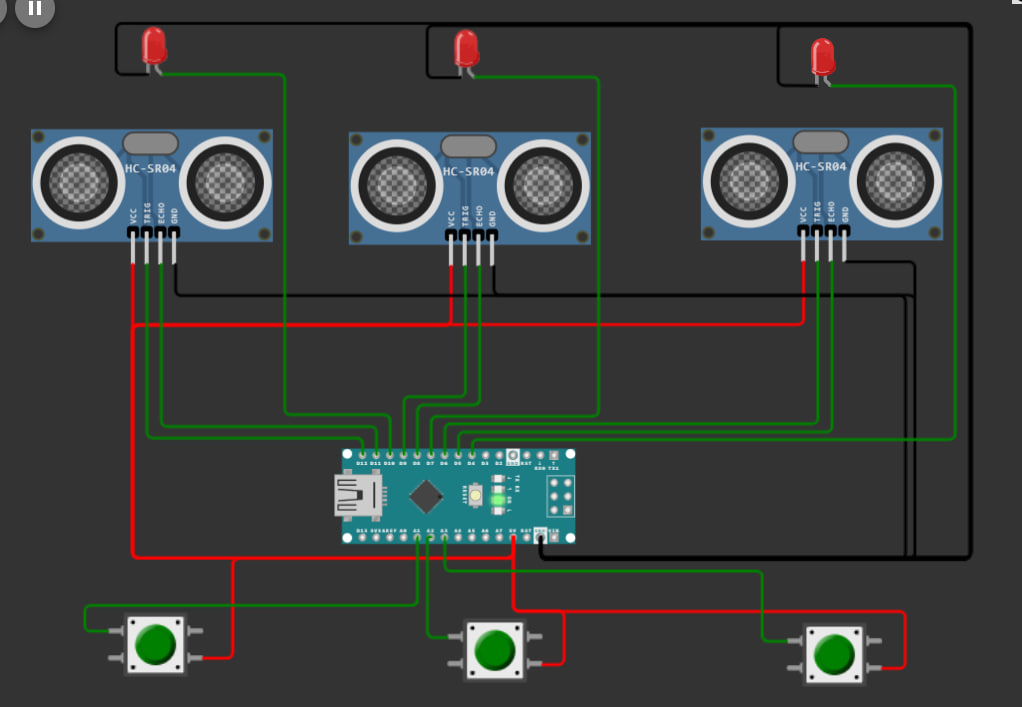
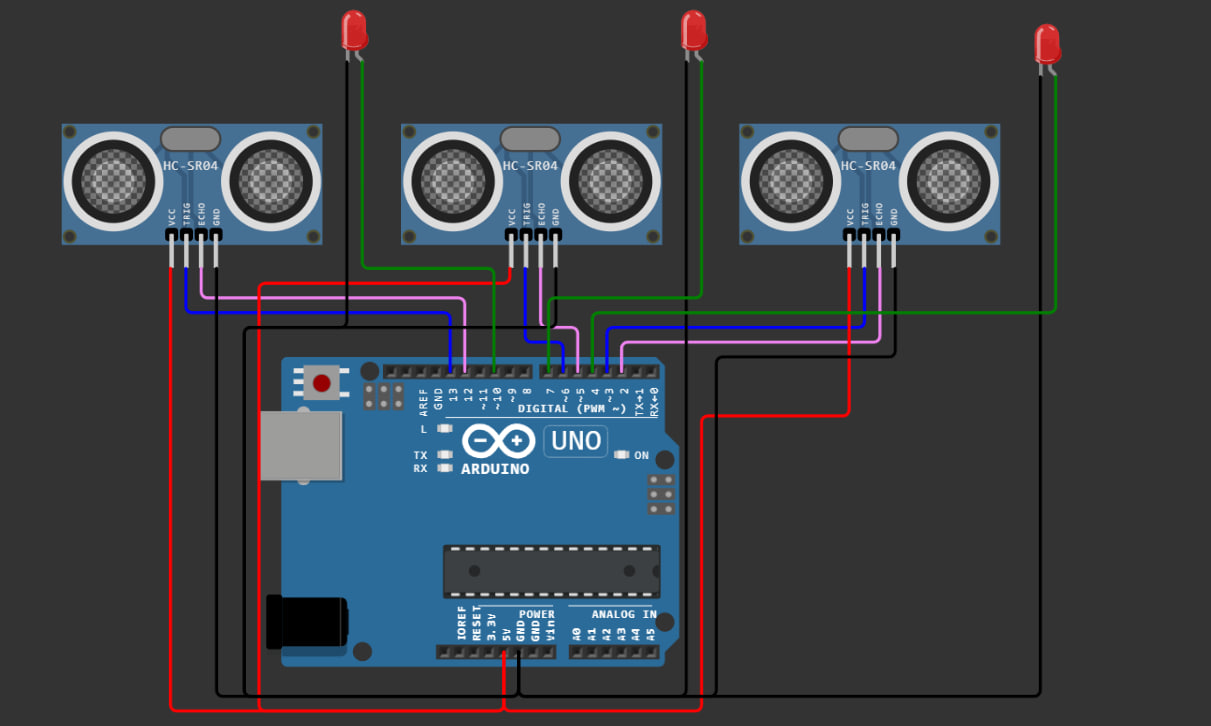
new sketch, README

diff --git a/README.md b/README.md
@@ -1,0 +1,11 @@
+# ARD-smart-lanterns
+
+Программа для макета системы умных автострадных фонарей. 
+Работает просто. Если расстояние сейчас сильно меньше предыдущего, включается светодиод.
+Разработано на основе ардуино уно.
+
+A program for the layout of a system of smart motorway lights. 
+It works simply. If the distance is now much less than the previous one, the LED turns on.
+Developed on the basis of Arduino uno.
+
+![Схема подключения / Сonnection scheme](/materials/scheme.jpg)
